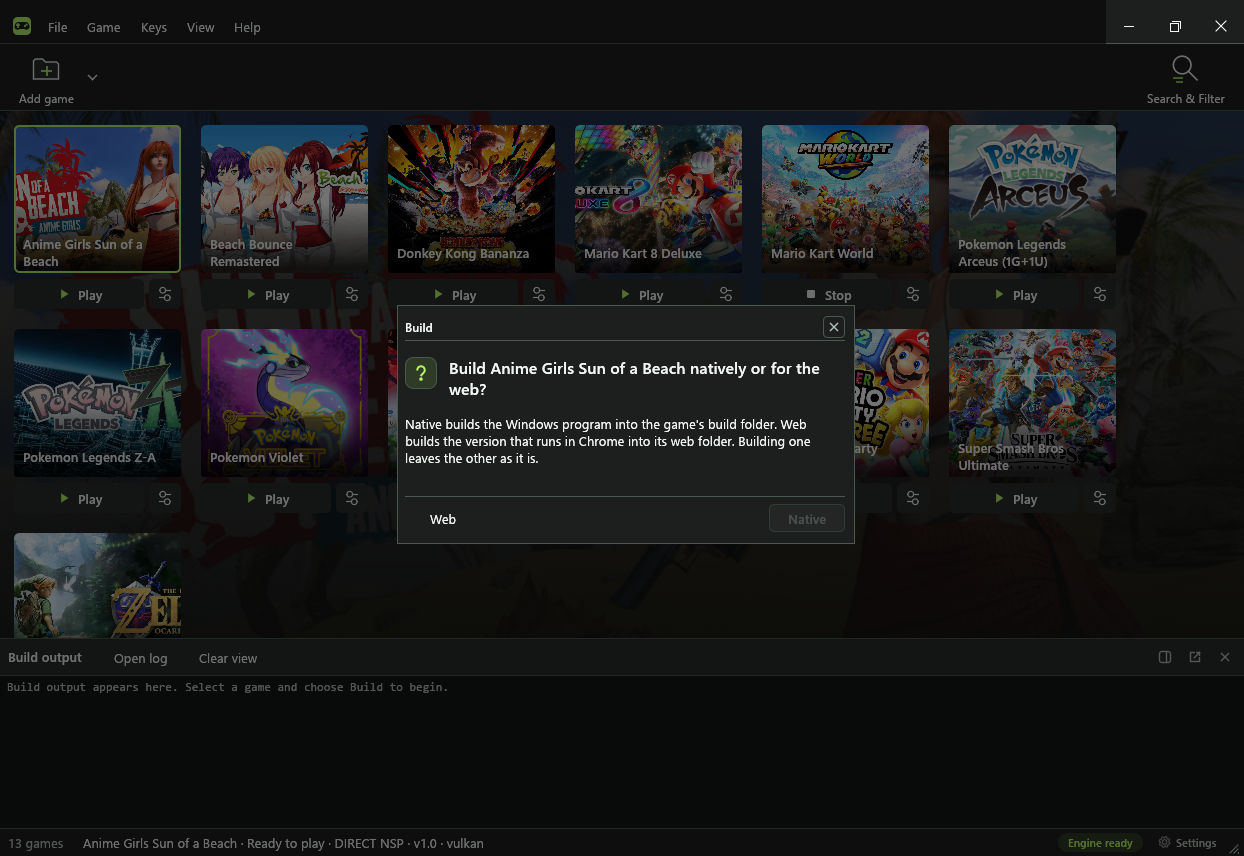
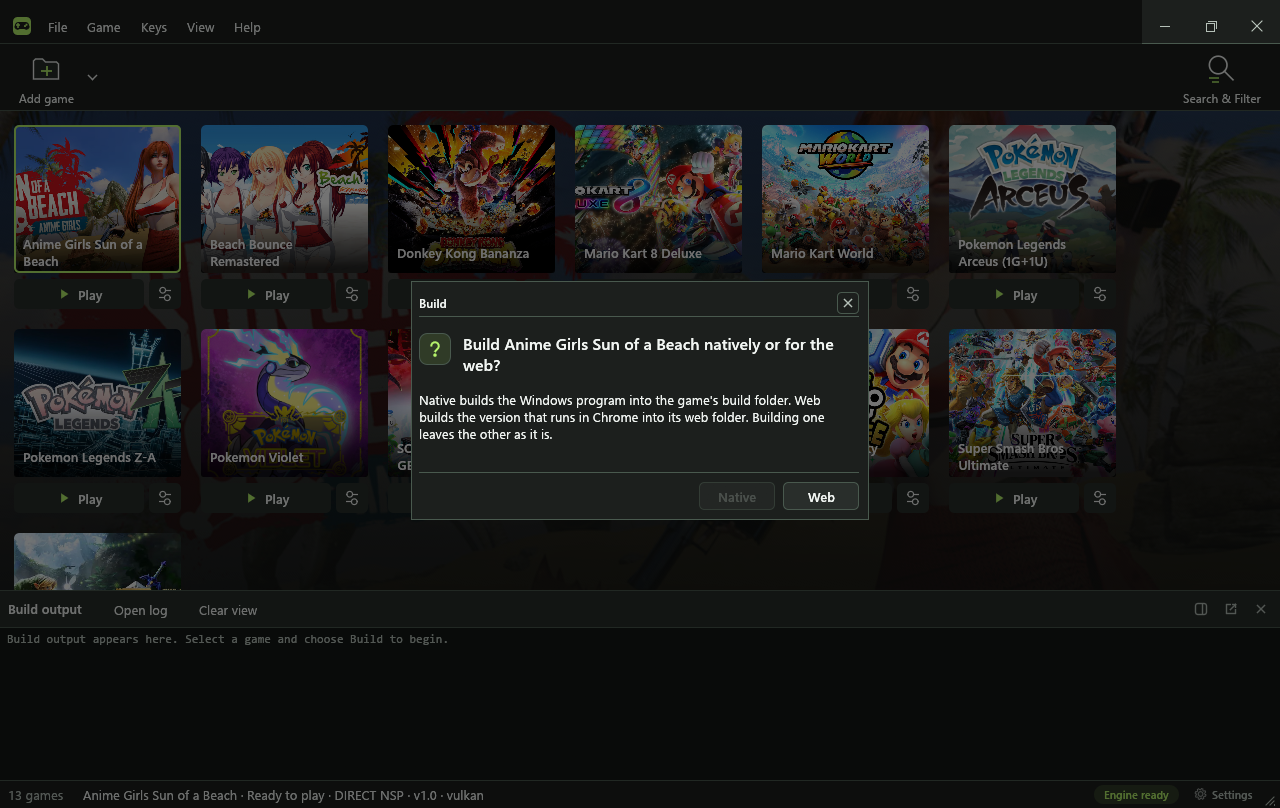
WEB-W5b: captures play.png/build.png (Choices box), wave doc results

diff --git a/docs/waves/WEB-W5b.md b/docs/waves/WEB-W5b.md
@@ -41,4 +41,24 @@ dialog to select either native or web. it should not be two play buttons, two bu
 
 ## Results
 
-(filled at the end)
+The dialog design changed four times during the wave on the owner's word (tiles + Cancel; tiles + one primary;
+two filled buttons; question box with Web as a ghost lead verb); what shipped is the guide's new **Choices** form:
+
+- One Play and one Build in the Game menu, the context menu, the card, Enter/double-click, Ctrl+B and Updates'
+  Build now; the W5 web entries are gone. `App::why_not(id, build, web)` (`flows/target.rs`) is the one rule.
+- **Play** runs the one version that can play (native: `play`; web: `play_in_browser`) and asks only when both can.
+  Pressed before the startup tools check ended, Play finishes the check first (`refresh_tools_now`): before that
+  fix, a Play at startup on Anime Girls saw no browser and ran native without asking.
+- **Build** always asks; a version that cannot build is disabled, its reason the tooltip (a built game's Native:
+  "The native build is up to date.", the existing enablement).
+- The box: `Surface::Choices` drawn by `message::choices` — window title Play / Build (`words_contexts`), heading
+  "Play <game> natively or on the web?" / "Build <game> natively or for the web?", the text explaining both, the
+  footer Native then Web as equal `button::choice` buttons at the trailing end (`authored::choices_at_bottom`),
+  none filled; Enter chooses nothing; X / Escape dismiss. `--show-window play|build` opens it for captures.
+- Docs: guide §5 Choices bullet + footer row + filled-primary bullet + Buttons table; `LAUNCHER_CONTRACT.md` web
+  section; `35-WEB-TARGET-PLAN.md` W5 row; captures `docs/images/dialogs/play.png`, `build.png`.
+
+Evidence (`build/WEB/W5b`): `game-menu.png`, `play-choices-anime.png`, `build-choices-anime.png`,
+`chrome-play-web.png` + `chrome-play-web-later.png` (Play > Web for Anime Girls: Chrome at
+`127.0.0.1:8781/anime-girls-sun-of-a-beach/`, title menu reached), `play-native-only.txt` (card Play on Beach
+Bounce, native only: no dialog, the game started, then stopped by PID).
